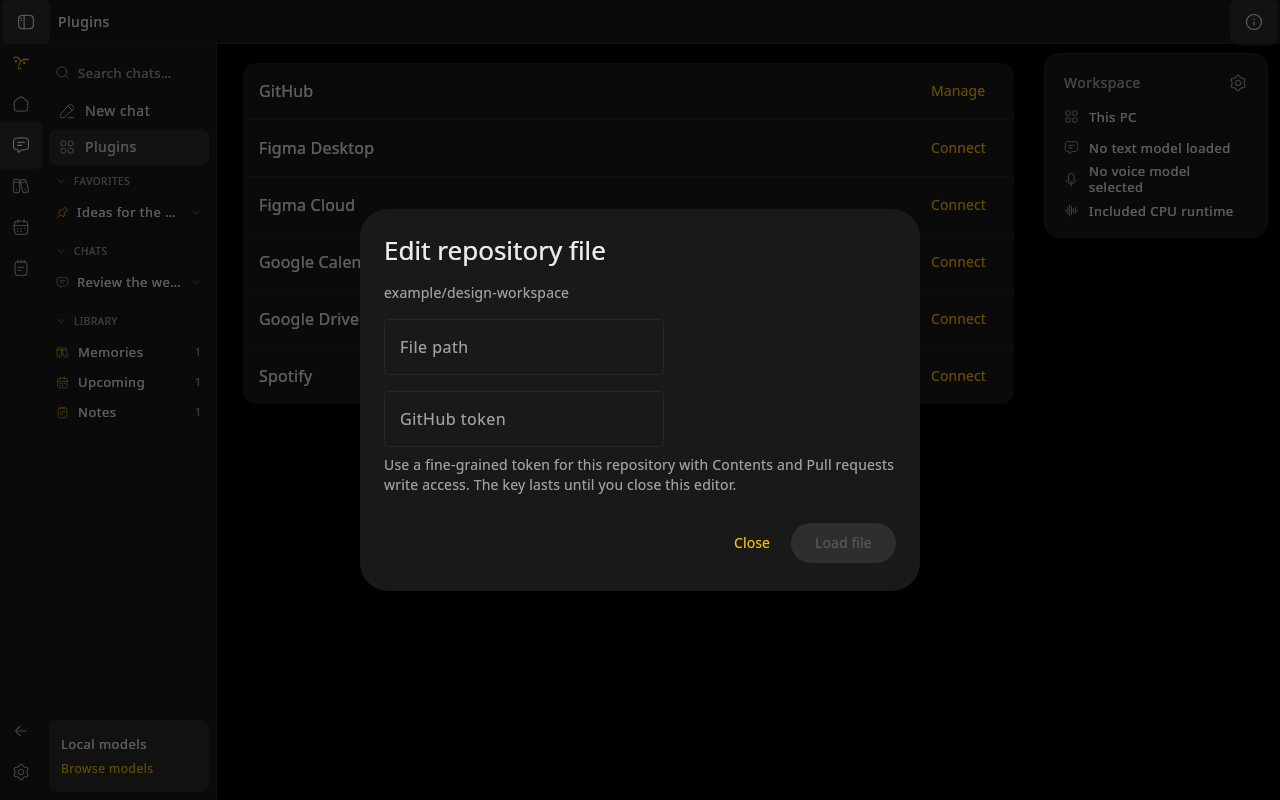
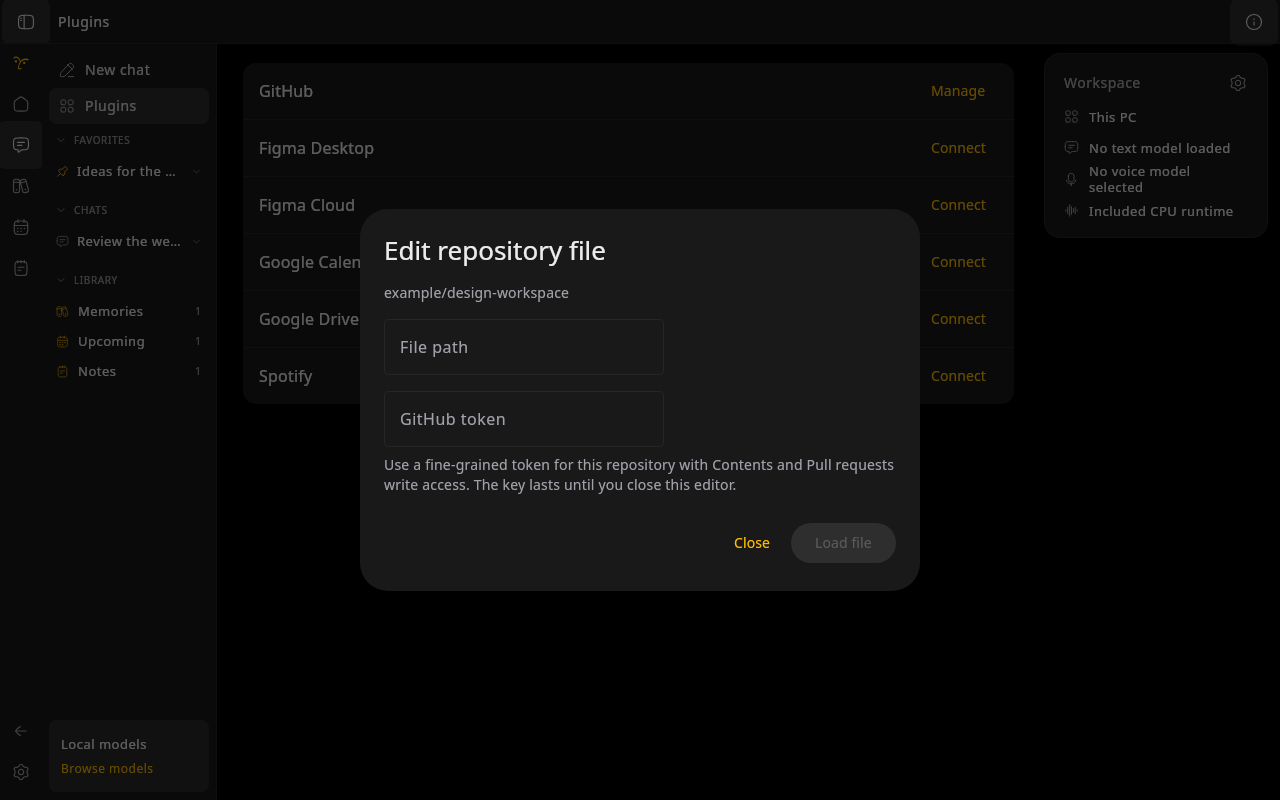
Move saved chat search into Workspace settings and refresh the native screen gallery

Changed region(s): [[0.0625, 0.125, 0.125, 0.3125], [0.0312, 0.3438, 0.125, 0.5312], [0.0625, 0.0625, 0.125, 0.0938]]

diff --git a/src/main/kotlin/alter/Main.kt b/src/main/kotlin/alter/Main.kt
@@ -144,10 +144,6 @@ private fun AlterApp(store: Store, active: Boolean, preview: String?, catalog: S
     var threads by remember { mutableStateOf(store.threads()) }
     var threadId by remember { mutableStateOf(threads.firstOrNull { !it.archived }?.id) }
     var messages by remember { mutableStateOf(threadId?.let(store::messages).orEmpty()) }
-    var historyQuery by remember { mutableStateOf("") }
-    val filteredThreads = remember(threads, messages, historyQuery) {
-        if (historyQuery.isBlank()) threads else store.threads(historyQuery)
-    }
     val drafts = remember { mutableMapOf<Long?, String>() }
     var deleteChat by remember { mutableStateOf<ChatThread?>(null) }
     var search by remember { mutableStateOf("") }
@@ -482,7 +478,7 @@ private fun AlterApp(store: Store, active: Boolean, preview: String?, catalog: S
                     WorkspaceSidebar(if (chatPlugins) null else settings, destination == Destination.Chat, chatPlugins, {
                         requestedPlugin = null; pluginsFromChat = true; settings = "Plugins"; if (compact) sidebar = false
                     }, threadId.takeIf { settings == null && destination == Destination.Chat },
-                        filteredThreads, historyQuery, { historyQuery = it },
+                        threads,
                         { openThread(null); if (compact) sidebar = false },
                         { openThread(it); if (compact) sidebar = false }, canSwitch,
                         { pluginsFromChat = false; settings = it; if (compact) sidebar = false },
@@ -548,6 +544,23 @@ private fun AlterApp(store: Store, active: Boolean, preview: String?, catalog: S
                             "Workspace" -> {
                                 Text("Project", style = MaterialTheme.typography.titleMedium)
                                 ProjectPicker(project, catalog, canSwitch && prompt.isBlank(), selectProject)
+                                if (threads.isNotEmpty()) {
+                                    var query by remember { mutableStateOf<String?>(null) }
+                                    TextButton(enabled = canSwitch, onClick = { query = if (query == null) "" else null }) { Text("Find a chat") }
+                                    query?.let { text ->
+                                        OutlinedTextField(text, { query = it }, Modifier.fillMaxWidth(), singleLine = true,
+                                            label = { Text("Search chats") })
+                                        if (text.isNotBlank()) {
+                                            val matches = remember(text, threads) { store.threads(text) }
+                                            if (matches.isEmpty()) Text("No matching chats")
+                                            else LazyColumn(Modifier.fillMaxWidth().heightIn(max = 220.dp)) {
+                                                items(matches, key = { it.id }) { thread ->
+                                                    TextButton(enabled = canSwitch, onClick = { openThread(thread.id) }) { Text(thread.title) }
+                                                }
+                                            }
+                                        }
+                                    }
+                                }
                                 var toolSuggestions by remember { mutableStateOf(store.setting("modelTools").toBoolean()) }
                                 Row(verticalAlignment = Alignment.CenterVertically) {
                                     Checkbox(toolSuggestions, { toolSuggestions = it; store.setting("modelTools", it.toString(), true) })

diff --git a/src/main/kotlin/alter/Workspace.kt b/src/main/kotlin/alter/Workspace.kt
@@ -5,14 +5,12 @@ import androidx.compose.foundation.layout.*
 import androidx.compose.foundation.lazy.LazyColumn
 import androidx.compose.foundation.lazy.items
 import androidx.compose.foundation.shape.RoundedCornerShape
-import androidx.compose.foundation.text.BasicTextField
 import androidx.compose.material3.*
 import androidx.compose.runtime.*
 import androidx.compose.ui.Alignment
 import androidx.compose.ui.Modifier
 import androidx.compose.ui.draw.clip
 import androidx.compose.ui.graphics.Color
-import androidx.compose.ui.graphics.SolidColor
 import androidx.compose.ui.graphics.vector.ImageVector
 import androidx.compose.ui.res.painterResource
 import androidx.compose.ui.semantics.*
@@ -84,7 +82,7 @@ private fun SectionHeader(name: String, expanded: Boolean, toggle: () -> Unit) {
 
 @Composable
 internal fun WorkspaceSidebar(settings: String?, chat: Boolean, pluginsSelected: Boolean, openPlugins: () -> Unit, active: Long?, threads: List<ChatThread>,
-    search: String, setSearch: (String) -> Unit, newChat: () -> Unit, openThread: (Long) -> Unit,
+    newChat: () -> Unit, openThread: (Long) -> Unit,
     canSwitch: Boolean, openSettings: (String) -> Unit, update: (ChatThread) -> Unit,
     categories: Map<Destination, Int>, openCategory: (Destination) -> Unit, modelCount: Int) {
     val c = MaterialTheme.colorScheme
@@ -95,22 +93,11 @@ internal fun WorkspaceSidebar(settings: String?, chat: Boolean, pluginsSelected:
             Text("Settings", Modifier.padding(10.dp), fontSize = 16.sp, fontWeight = FontWeight.Bold)
             Column(Modifier.verticalScroll(rememberScrollState())) { settingsPages.forEach { WorkspaceRow(it, selected = settings == it) { openSettings(it) } } }
         } else {
-            if (threads.isNotEmpty() || search.isNotBlank()) BasicTextField(search, setSearch, Modifier.fillMaxWidth().padding(6.dp).semantics { contentDescription = "Search chats" },
-                singleLine = true, textStyle = MaterialTheme.typography.bodyMedium.copy(color = c.onSurface),
-                cursorBrush = SolidColor(c.primary), decorationBox = { inner ->
-                    Row(Modifier.height(29.dp), verticalAlignment = Alignment.CenterVertically,
-                        horizontalArrangement = Arrangement.spacedBy(8.dp)) {
-                        Icon(AlterIcons.Search, null, Modifier.size(15.dp), c.onSurface.copy(alpha = .65f))
-                        Box(Modifier.weight(1f)) { if (search.isEmpty()) Text("Search chats…", fontSize = 13.sp, color = c.onSurface.copy(alpha = .66f)); inner() }
-                    }
-                })
             WorkspaceRow("New chat", AlterIcons.Edit, enabled = canSwitch, onClick = newChat)
             if (chat) WorkspaceRow("Plugins", AlterIcons.Grid, selected = pluginsSelected, onClick = openPlugins)
             LazyColumn(Modifier.fillMaxWidth().weight(1f)) {
-                if (search.isNotBlank() && threads.isEmpty()) item { Text("No matching chats", Modifier.padding(8.dp), fontSize = 13.sp) }
                 for (name in listOf("Favorites", "Chats", "Library", "Archive")) {
-                    val open = expanded[name] == true || search.isNotBlank()
-                    if (name == "Library" && search.isNotBlank()) continue
+                    val open = expanded[name] == true
                     val group = when (name) {
                         "Favorites" -> threads.filter { it.favorite && !it.archived }
                         "Chats" -> threads.filter { !it.favorite && !it.archived }

diff --git a/DESIGN_SYSTEM.md b/DESIGN_SYSTEM.md
@@ -8,7 +8,7 @@ The desktop workspace base is explicitly pitch black (#000000). Gray (#191919) i
 
[1 lines of base64/hex data omitted]
 
-The chat dashboard follows the two designer-supplied desktop references. A 43dp toolbar shows the current thread or destination. The left panel combines a 42dp centered icon rail and a 174dp navigation pane on one full-height surface flush with the left edge. Collapsing the panel leaves the icon rail visible. Search is always visible in the conversation panel. Favorites, Chats, Library and Archive collapse independently. The footer opens installed models. Settings contains project switching and commands. Chat includes Plugins beside New chat. Connection steps and permissions appear in the Connect dialog. Below 850dp the toolbar opens that panel on demand. The workspace-details card sits at the upper right from 1160dp and opens on demand at smaller widths.
+The chat dashboard follows the two designer-supplied desktop references. A 43dp toolbar shows the current thread or destination. The left panel combines a 42dp centered icon rail and a 174dp navigation pane on one full-height surface flush with the left edge. Collapsing the panel leaves the icon rail visible. Saved-chat search opens from Settings → Workspace. Favorites, Chats, Library and Archive collapse independently. The footer opens installed models. Settings contains project switching and commands. Chat includes Plugins beside New chat. Connection steps and permissions appear in the Connect dialog. Below 850dp the toolbar opens that panel on demand. The workspace-details card sits at the upper right from 1160dp and opens on demand at smaller widths.
 
 The transcript and bottom composer share an 810dp maximum width. User turns align right in gray capsules, assistant prose aligns left, and completed replies include Copy. The composer holds multiline text, a local model menu, dictation and send/stop. Alter yellow identifies primary actions. The anchored plus menu on the record screens expands to Memory, Note and Task. Actual Compose captures are in design/previews.
 

diff --git a/PROJECT.md b/PROJECT.md
@@ -27,7 +27,7 @@ This is a desktop JVM target rather than a speculative shared-core rewrite. Java
 
 Schema version 2 stores local text/note/upcoming cards, soft deletion, theme/server-port preferences and separate persistent conversations with favorite/archive preferences. IDs are numeric, timestamps are epoch milliseconds, display uses the OS zone and Unicode remains intact. Unsupported database versions fail before schema writes. SQLite WAL/busy timeout are enabled. This is not an Android Room file or full archive implementation. Existing task parsing/completion is copied with provenance.
 
-Local chat sends only the last 20 conversation messages and the runtime instructions to `127.0.0.1`, with a 512-token output cap. Curated model files are fetched from immutable official revisions and verified by exact size and SHA-256 before a bundled CPU llama.cpp server starts. Voice uses explicit Java Sound recording and a bundled whisper.cpp CLI with a separately selected verified multilingual model. Transcription fills a prompt for review; it does not send automatically. Stop cancels the HTTP future; a failed/cancelled reply is not saved. The searchable sidebar selects a saved conversation. Cloud fallback and semantic retrieval are unavailable. Windows CI builds the native runtimes from pinned upstream commits. No model weights are bundled.
+Local chat sends only the last 20 conversation messages and the runtime instructions to `127.0.0.1`, with a 512-token output cap. Curated model files are fetched from immutable official revisions and verified by exact size and SHA-256 before a bundled CPU llama.cpp server starts. Voice uses explicit Java Sound recording and a bundled whisper.cpp CLI with a separately selected verified multilingual model. Transcription fills a prompt for review; it does not send automatically. Stop cancels the HTTP future; a failed/cancelled reply is not saved. The sidebar selects a saved conversation. Settings → Workspace can search conversation content. Cloud fallback and semantic retrieval are unavailable. Windows CI builds the native runtimes from pinned upstream commits. No model weights are bundled.
 
 Data at rest uses the user's OS account storage, without application encryption. Backups, synchronization, cloud credentials and installer signing are separate increments. Do not expose the local inference server to the LAN.
 

diff --git a/CHANGES.md b/CHANGES.md
@@ -2,6 +2,8 @@
 
 ## 0.2.3 desktop preview
 
+Chat history search lives in Settings → Workspace.
+
 Windows installs the application under `%LOCALAPPDATA%\Programs\Alter`. Upgrading a legacy installation protects the existing workspace, downloaded models and project files under `%LOCALAPPDATA%\Alter`. Windows CI checks both Qwen sizes and transcribes a synthetic spoken command with Whisper Tiny and Base.
 
 ## 0.2.2 desktop preview
